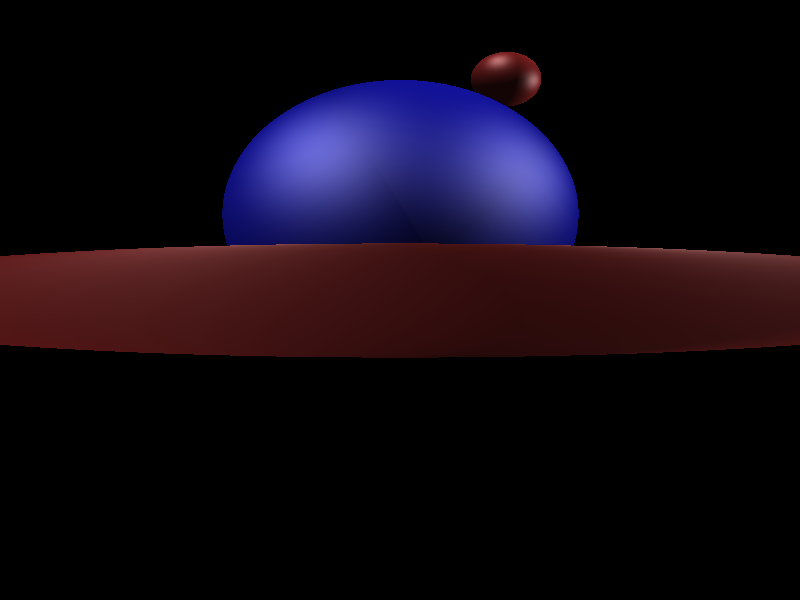
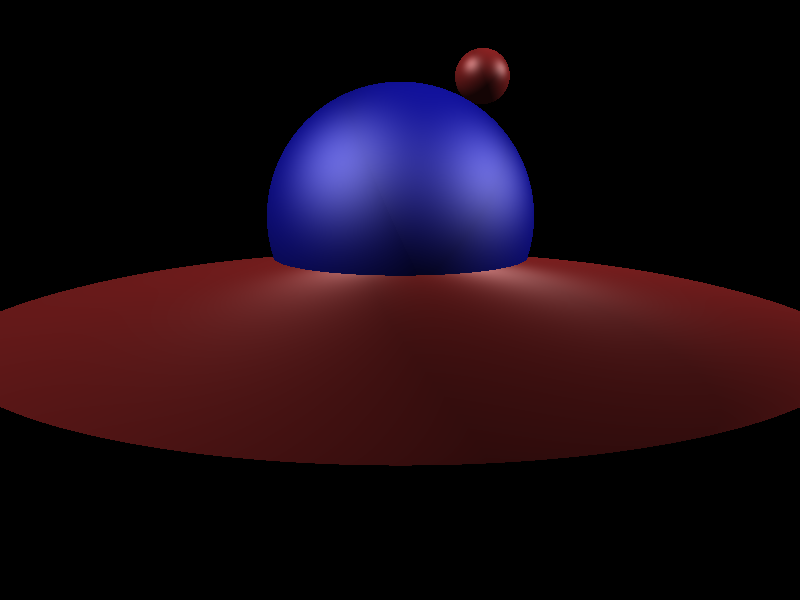
Commit

diff --git a/cs6620/prj3.html b/cs6620/prj3.html
@@ -1,9 +1,9 @@
 <!DOCTYPE html>
 <html>
 <body>
-<h1>Project 2(Shade)</h1>
+<h1>Project 3(Shadow)</h1>
 <h5></h5>
-<img src="prj2.png" alt="Trulli" width="800" height="600">
+<img src="prj3.png" alt="Trulli" width="800" height="600">
 <h3> Time used : 2.66193 seconds</h3>
 <h3> Processor : Intel(R) Core(TM) i7-8750H CPU @ 2.20 GHz
 <h3> Memory : 16.0G
